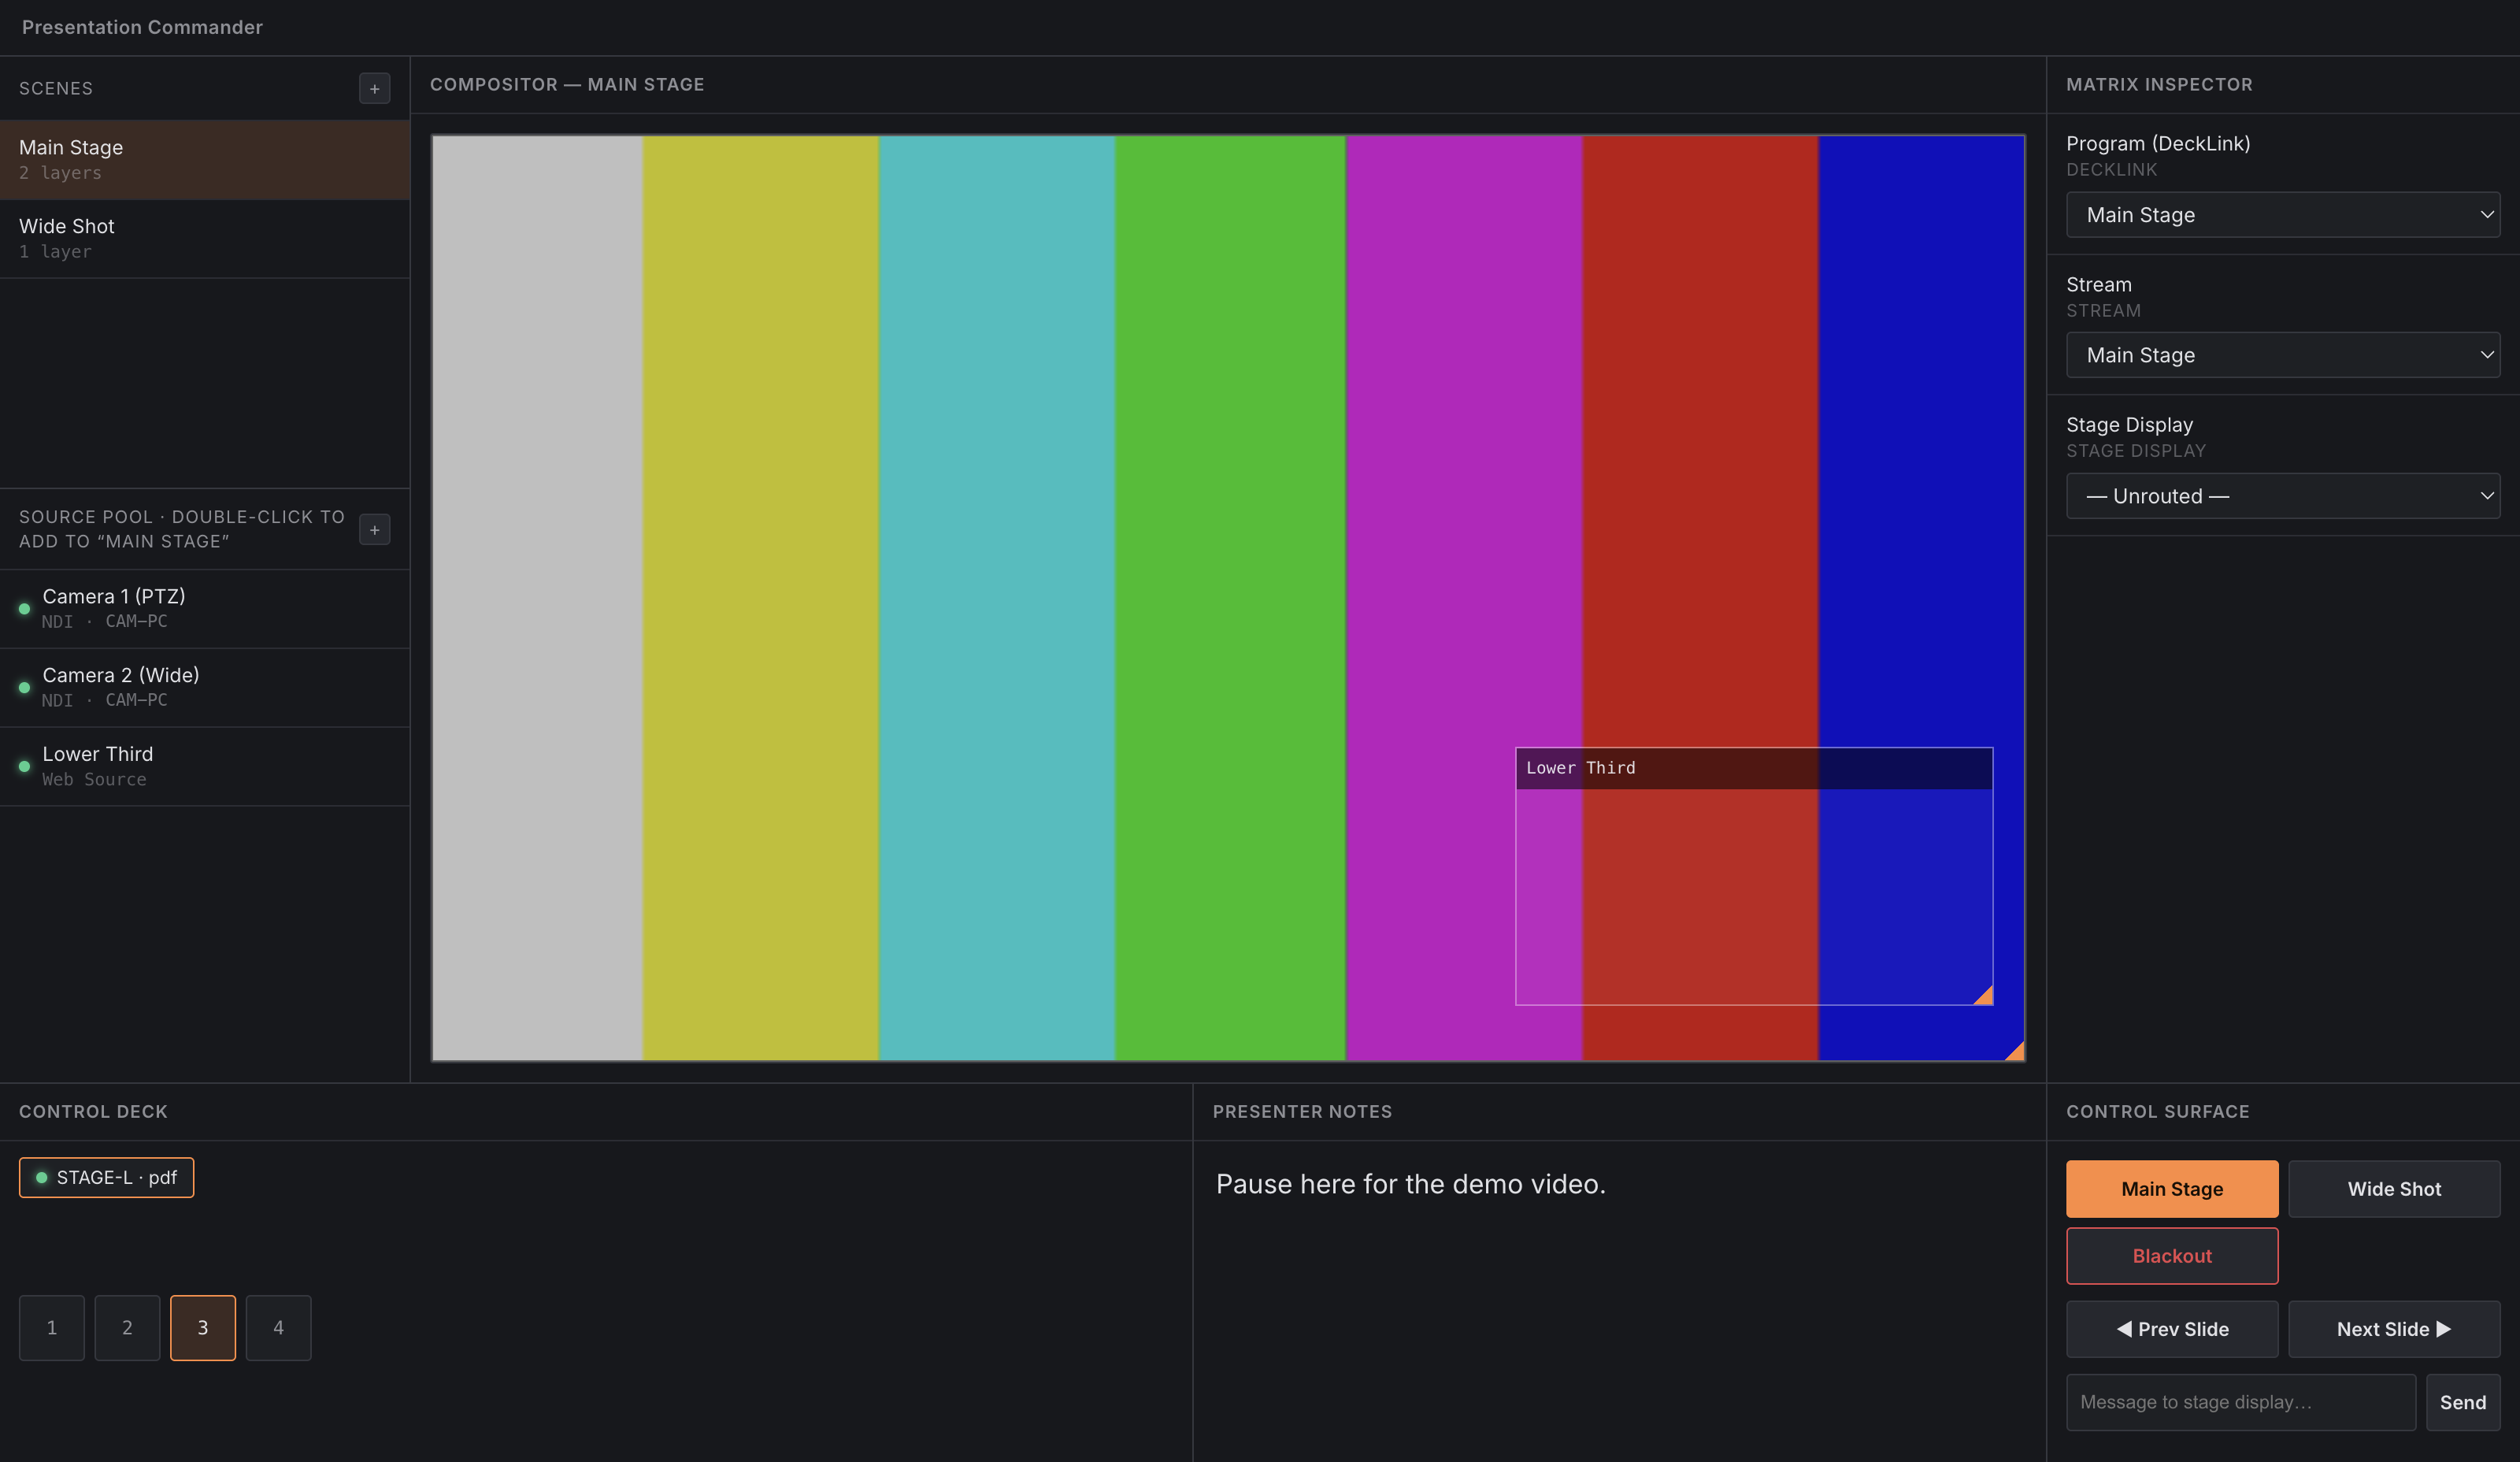
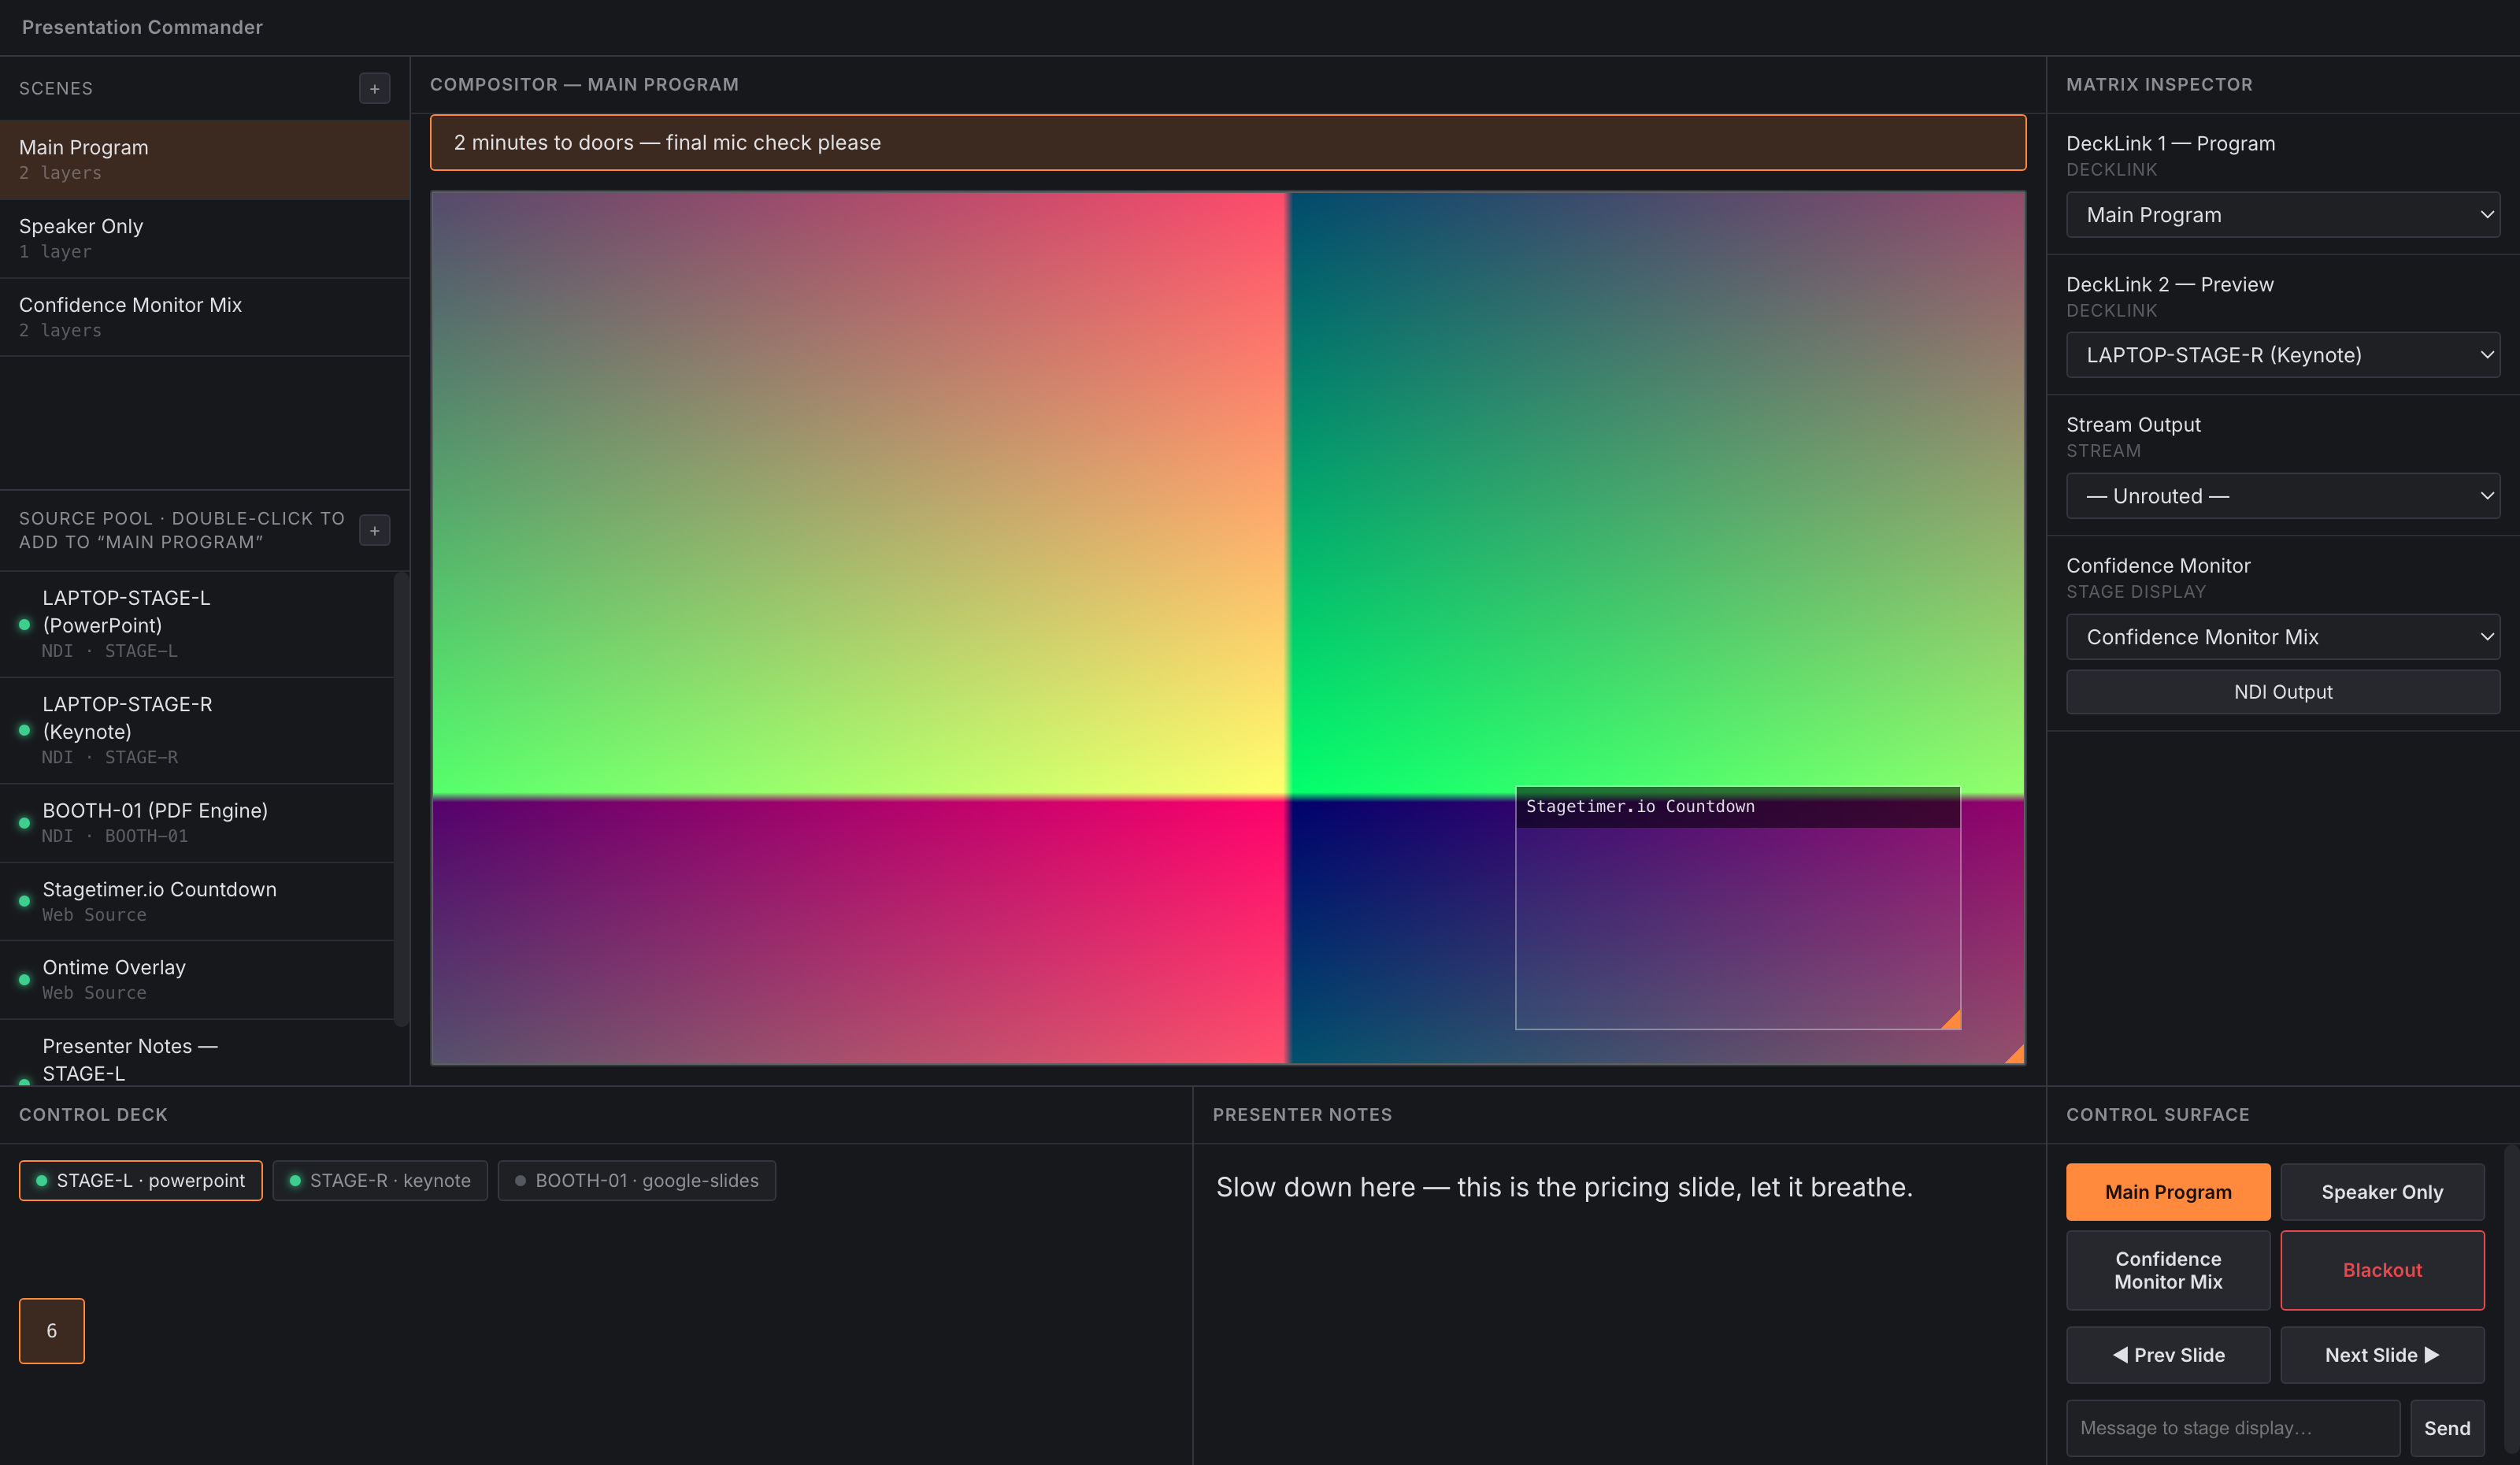
Document Confidence Monitor + Companion module, refresh screenshot
README was stale relative to the Confidence Monitor compositor and
the Bitfocus Companion module — added both to the feature list plus
an architecture diagram (Client Node <-> Master Server <-> Confidence
Monitor / Companion / Google Slides bridge) and an updated screenshot.

diff --git a/README.md b/README.md
@@ -28,12 +28,55 @@ the companion app that runs on each presentation laptop.
   Client Node
 - **Control Surface** — a button-grid control surface: scene recall, blackout,
   next/previous slide, send-note-to-stage — all backed by the same command
-  path used by the JSON-RPC automation API (`:9700`) for Bitfocus
-  Companion/Stream Deck integration
+  path used by the JSON-RPC automation API (`:9700`), which also powers the
+  [Bitfocus Companion module](https://github.com/allansargeant/companion-module-presentationcommander-server)
+  for Stream Deck integration
+- **Confidence Monitor** — a `Presenter Notes` source type composites live
+  presenter notes over video into one real NDI output (`native/ndi-send`,
+  the same addon architecture as the Client's NDI send), so a physical
+  stage monitor gets an actual broadcast signal instead of a text box in
+  the operator's own window
 - **Client Hub** (`:9800`) — WebSocket server that Client Nodes register
   with; connected clients automatically appear as routable sources, and
   next/previous-slide commands are forwarded live to the client instead of
   being simulated locally
+
+## Architecture
+
+```mermaid
+graph LR
+    subgraph laptop["Presentation Laptop (Client Node)"]
+        SS["SlideSource<br/>PDF · Keynote · Google Slides"]
+        NDIsend["NDI Send<br/>native/ndi-send"]
+        ProgOut["Program Out window"]
+        SL["serverLink.ts"]
+        SS --> NDIsend
+        SS --> ProgOut
+        SS --> SL
+    end
+
+    subgraph browser["Browser (optional)"]
+        GSExt["Google Slides<br/>MV3 extension"]
+    end
+    GSExt -- "ws://localhost:9801" --> SL
+
+    subgraph server["Master Server"]
+        Hub["Client Hub<br/>WS :9800"]
+        Matrix["NDI Matrix /<br/>Scene Compositor"]
+        Auto["Automation API<br/>HTTP :9700"]
+        ConfMon["Confidence Monitor<br/>NDI Send"]
+        Hub --> Matrix
+        Matrix --> ConfMon
+        Auto --> Matrix
+    end
+    SL -- "register / slide-state / command" --> Hub
+
+    NDIsend -- "NDI network" --> Matrix
+    ConfMon -- "NDI network" --> Monitor["Physical stage<br/>confidence monitor"]
+
+    Companion["Bitfocus Companion<br/>module"] -- "GET /state, POST /rpc" --> Auto
+    Deck["Stream Deck / any<br/>Companion surface"] --> Companion
+```
 
 ## What's real vs. mocked
 